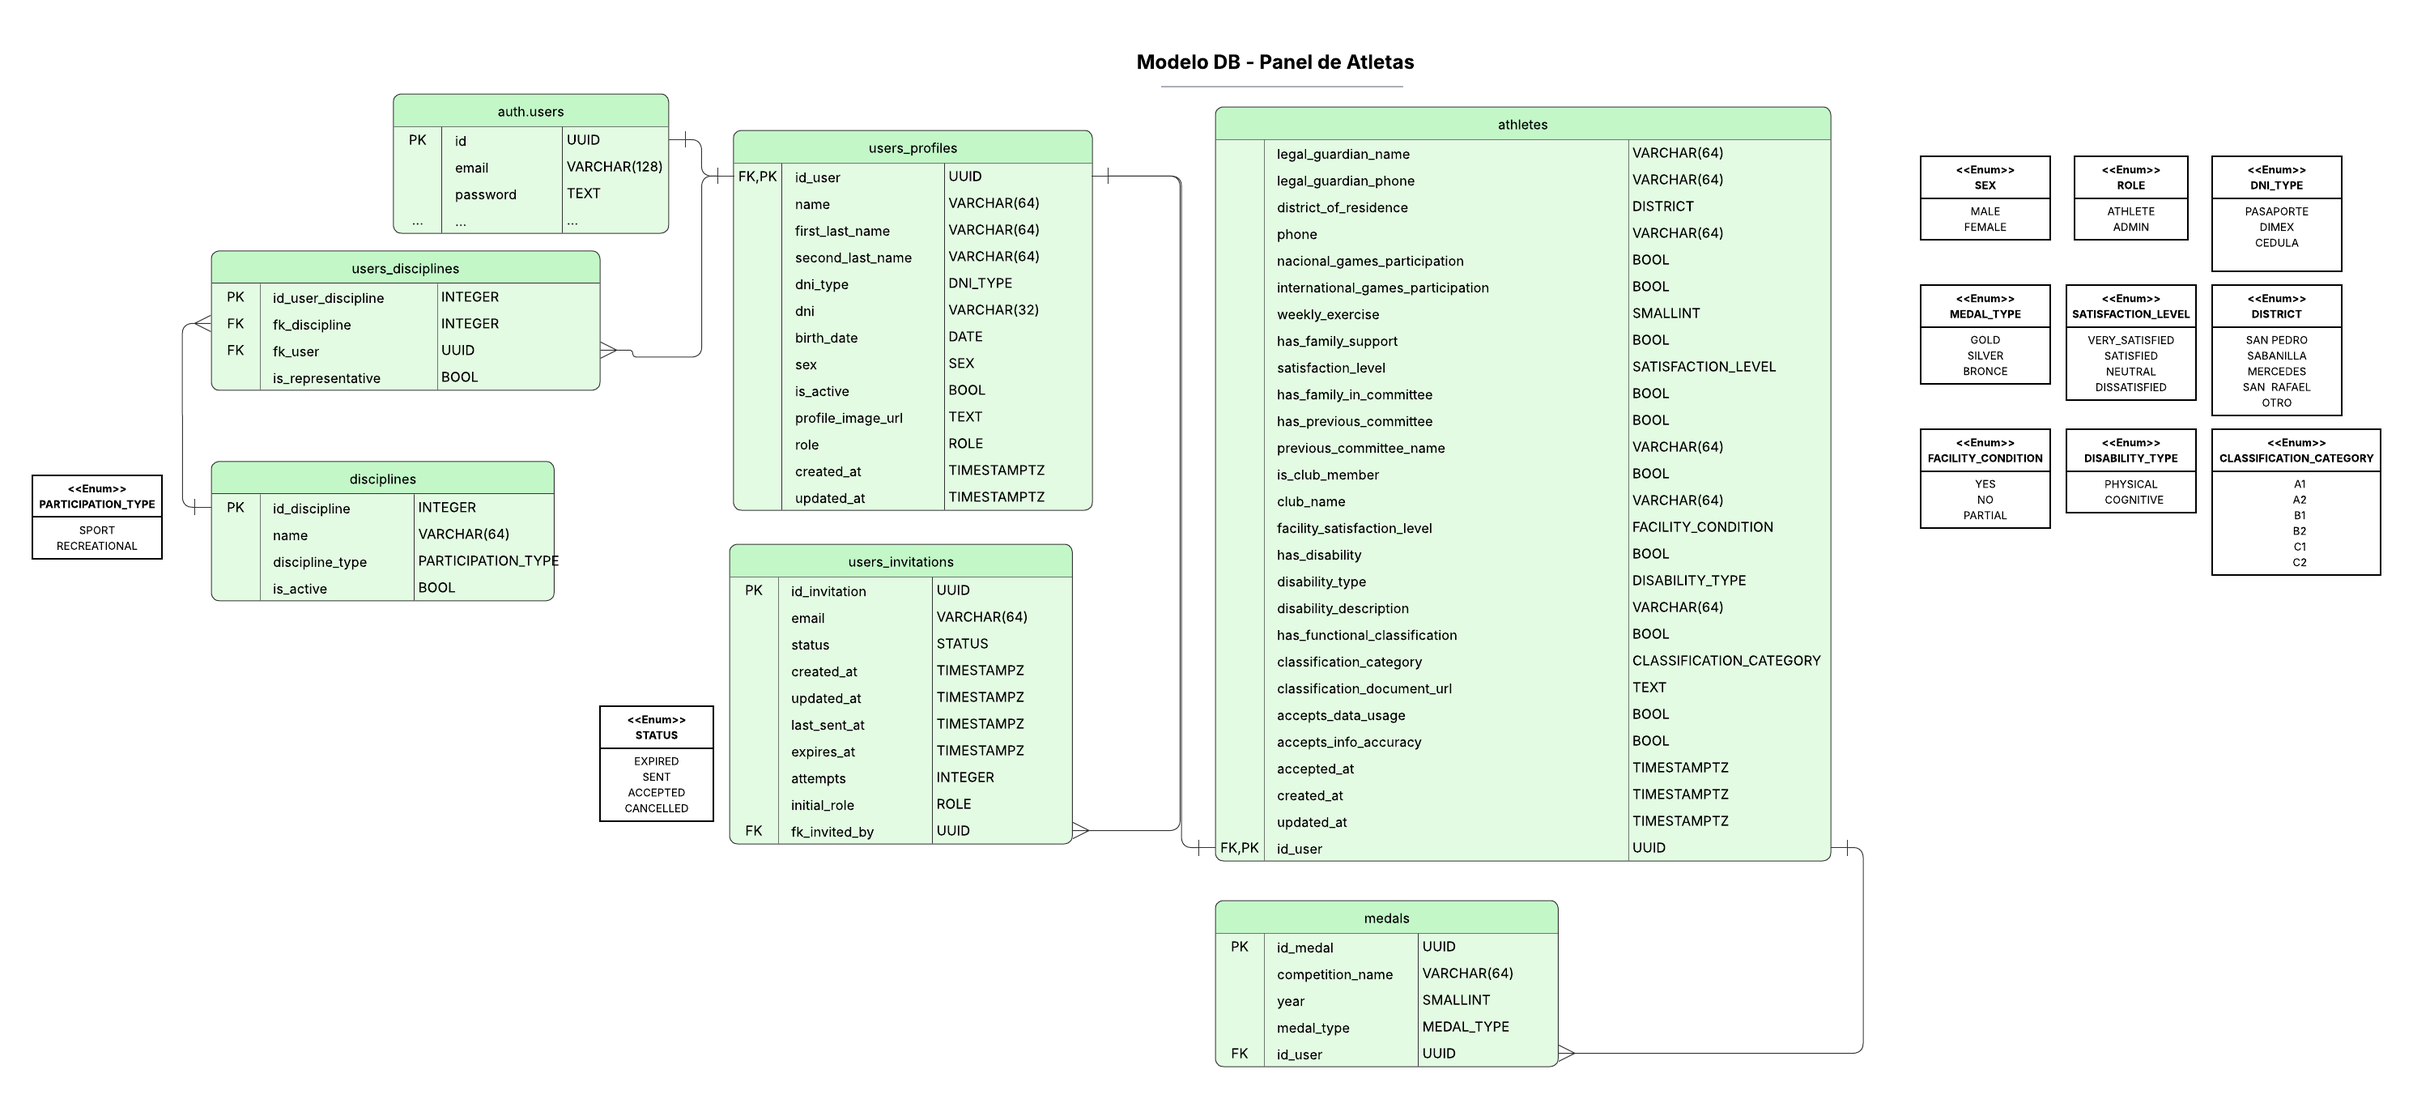
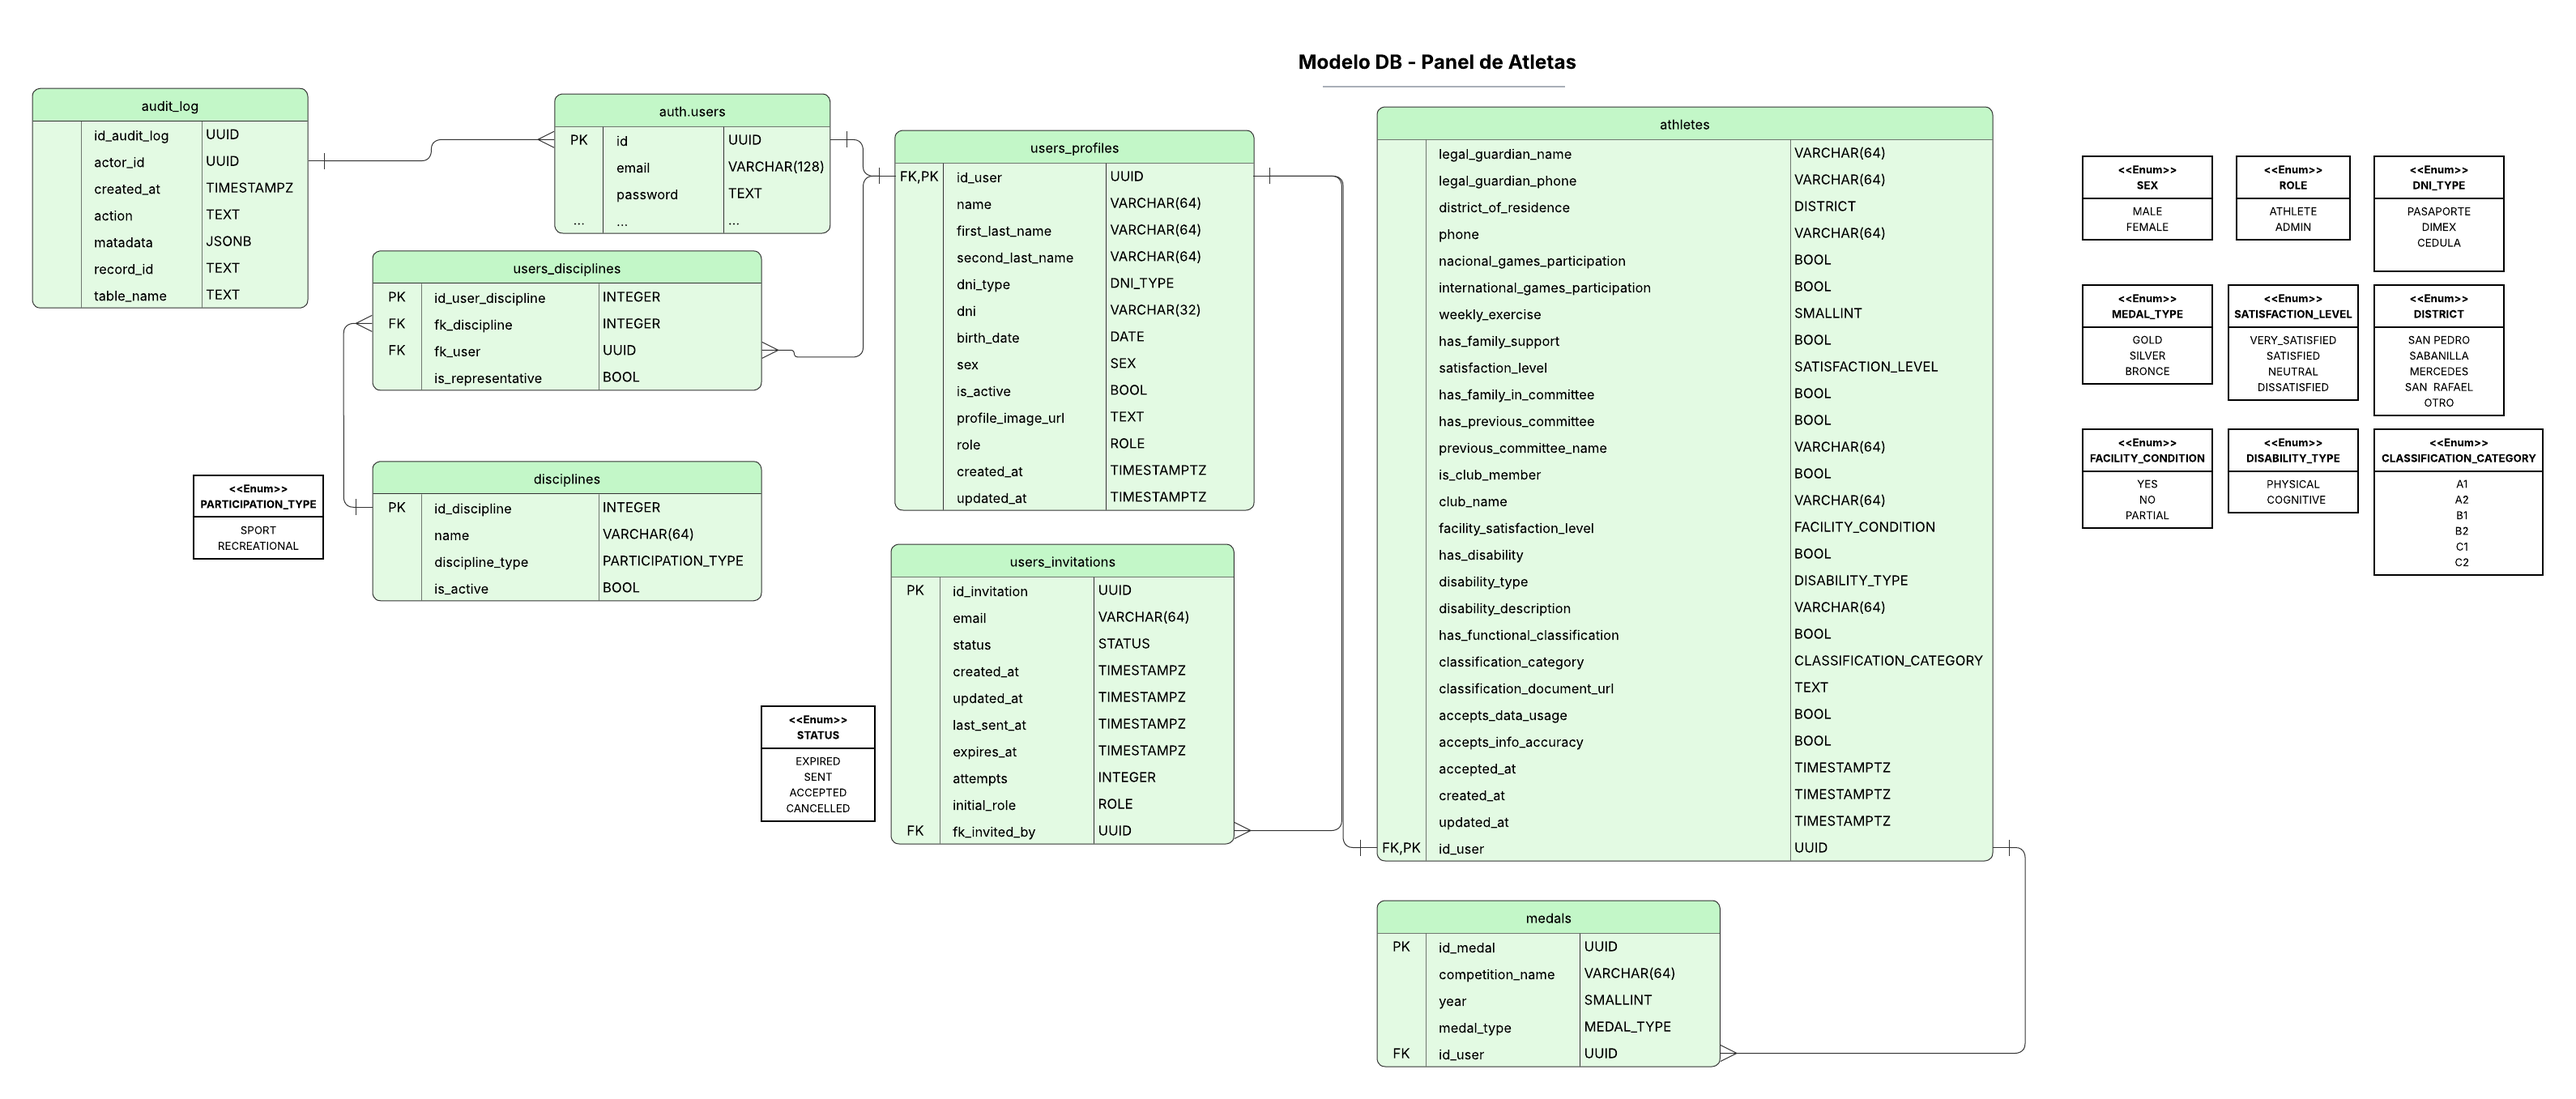
feat: Implement comprehensive database audit logging
Introduces a new `audit_log` table and associated Postgres triggers to record critical system events. This system directly powers the dashboard's "Actividad Reciente" feed, eliminating the need for a separate activity API.

Key events logged include user registration, invitation lifecycle (sent and accepted), profile updates (name changes and deactivation), and discipline creation. The implementation includes:

- Dedicated `AUDIT_LOG.md` documentation for schema, actions, and usage.
- Detailed trigger documentation in `triggers.md`.
- Row Level Security (RLS) restricting `SELECT` access to administrators.
- `SECURITY DEFINER` trigger functions with revoked public execution for secure data writes.
- Robust integration with test data seeding and cleanup scripts.

diff --git a/supabase/docs/AUDIT_LOG.md b/supabase/docs/AUDIT_LOG.md
@@ -1,0 +1,73 @@
+# Audit Log
+
+## Purpose
+
+`audit_log` records important system events automatically via Postgres triggers. Powers the **Actividad Reciente** feed on the dashboard without requiring a dedicated activity API.
+
+## Table Schema
+
+```sql
+CREATE TABLE public.audit_log (
+  id_audit_log  UUID PRIMARY KEY DEFAULT gen_random_uuid(),
+  created_at  TIMESTAMPTZ NOT NULL DEFAULT now(),
+  action      TEXT NOT NULL,
+  actor_id    UUID REFERENCES auth.users(id) ON DELETE SET NULL,
+  table_name  TEXT,
+  record_id   TEXT,
+  metadata    JSONB
+);
+```
+
+| Column | Description |
+|---|---|
+| `action` | Event type (see Actions below) |
+| `actor_id` | UUID of the authenticated user who triggered the event. `NULL` when no session exists (e.g. email confirmation). |
+| `table_name` | Source table of the event |
+| `record_id` | Primary key of the affected row (as text) |
+| `metadata` | Snapshot of relevant fields at the time of the event. Does not change if the source row is later modified or deleted. |
+
+## Actions
+
+| Action | Trigger source | Color (UI) |
+|---|---|---|
+| `user_registered` | INSERT on `users_profiles` | green |
+| `invite_sent` | INSERT on `users_invitations` | blue |
+| `invite_accepted` | UPDATE on `users_invitations` (`status → accepted`) | green |
+| `profile_updated` | UPDATE on `users_profiles` (name fields changed) | blue |
+| `user_deactivated` | UPDATE on `users_profiles` (`is_active TRUE → FALSE`) | red |
+| `discipline_created` | INSERT on `disciplines` | green |
+
+## Metadata per Action
+
+| Action | Metadata fields |
+|---|---|
+| `user_registered` | `name`, `first_last_name`, `role` |
+| `invite_sent` | `email`, `role` |
+| `invite_accepted` | `email`, `role` |
+| `profile_updated` | `name`, `first_last_name`, `role` |
+| `user_deactivated` | `name`, `first_last_name`, `role` |
+| `discipline_created` | `name`, `discipline_type` |
+
+## Access
+
+- **RLS:** `SELECT` restricted to users where `is_admin() = TRUE`
+- **INSERT/UPDATE/DELETE:** not permitted from client — writes only via `SECURITY DEFINER` trigger functions
+- All trigger functions have `REVOKE EXECUTE FROM PUBLIC`
+
+## Dashboard Query
+
+The `dashboard-stats` edge function reads the 5 most recent entries:
+
+```sql
+SELECT action, actor_id, metadata, created_at
+FROM public.audit_log
+ORDER BY created_at DESC
+LIMIT 5;
+```
+
+## Adding New Events
+
+1. Create a `SECURITY DEFINER` trigger function that inserts into `audit_log`
+2. Attach it as `AFTER INSERT/UPDATE/DELETE` on the relevant table
+3. `REVOKE EXECUTE ON FUNCTION ... FROM PUBLIC`
+4. Document the new action in this file and in `triggers.md`

diff --git a/supabase/docs/triggers.md b/supabase/docs/triggers.md
@@ -152,3 +152,62 @@ Blocks enrollment in disciplines that are inactive (`is_active = FALSE`).
 **Error:** `Cannot enroll in an inactive discipline.`
 
 **Note:** Does not fire on UPDATE — existing enrollments are preserved as historical records even if the discipline is later deactivated.
+
+---
+
+## audit_user_registered
+
+**Table:** `public.users_profiles`
+**Event:** `AFTER INSERT`
+**Function:** `handle_audit_user_registered()`
+
+Logs a `user_registered` event to `audit_log` whenever a new profile is created.
+
+**Metadata:** `{ name, first_last_name, role }`
+
+**Note:** Fires after `set_profile_id_from_auth` and `set_profile_role_from_invitation`, so `id_user` and `role` are already resolved.
+
+---
+
+## audit_invitation
+
+**Table:** `public.users_invitations`
+**Event:** `AFTER INSERT OR UPDATE`
+**Function:** `handle_audit_invitation()`
+
+Logs invitation lifecycle events to `audit_log`.
+
+**Logic:**
+- On INSERT → logs `invite_sent` with `actor_id = fk_invited_by`
+- On UPDATE, only when `status` changes to `'accepted'` → logs `invite_accepted` with `actor_id = NULL` (triggered by email confirmation, no authenticated session)
+
+**Metadata:** `{ email, role }`
+
+---
+
+## audit_profile_updated
+
+**Table:** `public.users_profiles`
+**Event:** `AFTER UPDATE`
+**Function:** `handle_audit_profile_updated()`
+
+Logs profile change events to `audit_log`. Fires on two distinct conditions:
+
+**Logic:**
+- `is_active` changes `TRUE → FALSE` → logs `user_deactivated`
+- `name`, `first_last_name`, or `second_last_name` changes → logs `profile_updated`
+- Any other UPDATE (e.g. `role`, `profile_image_url`) → no log entry
+
+**Metadata:** `{ name, first_last_name, role }`
+
+---
+
+## audit_discipline_created
+
+**Table:** `public.disciplines`
+**Event:** `AFTER INSERT`
+**Function:** `handle_audit_discipline_created()`
+
+Logs a `discipline_created` event to `audit_log` whenever a new discipline is added.
+
+**Metadata:** `{ name, discipline_type }`
